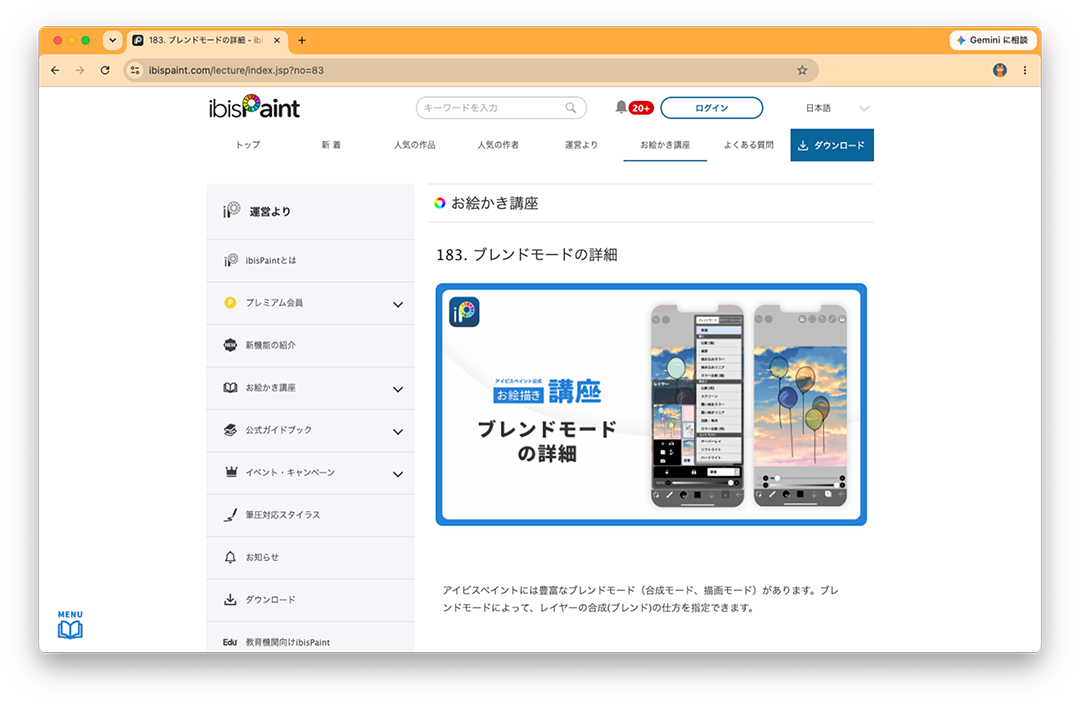
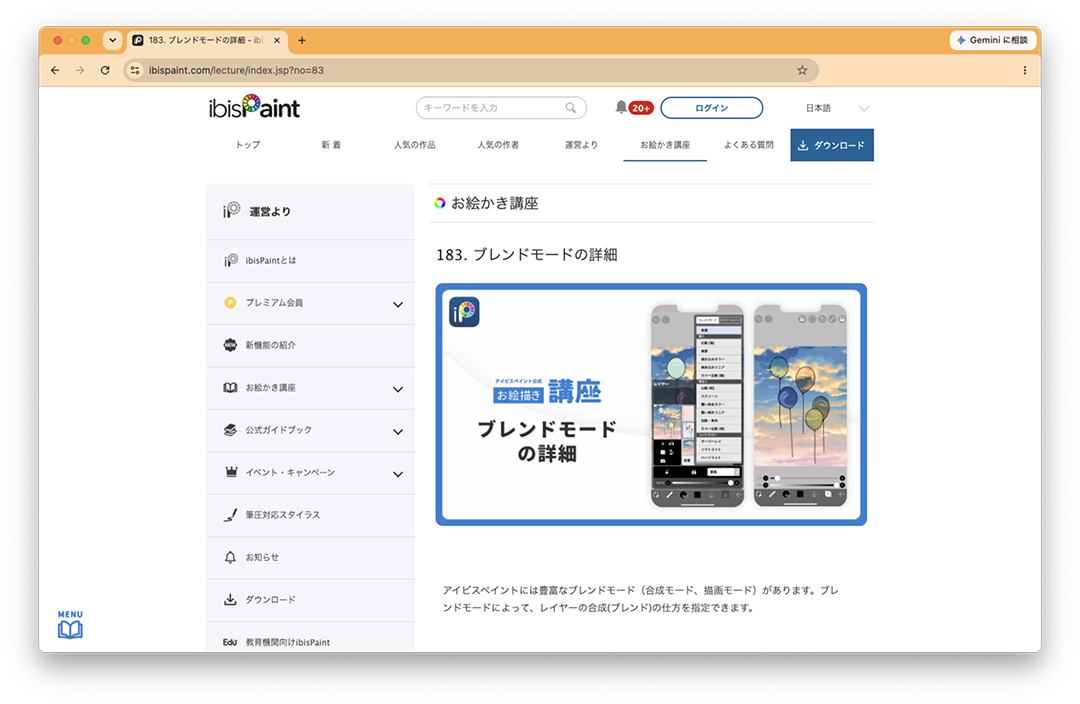
掲載情報の修正

diff --git a/works-commercial-web.html b/works-commercial-web.html
@@ -40,15 +40,16 @@
                 <div class="p-feature-item">
                   <div class="p-feature-text">
                     <h4>■親しみやすさの表現</h4>
-                    <p>元々ユーザー向けに</p>
+                    <p>アプリのユーザー層に合わせ、イラスト制作を楽しむ雰囲気が伝わるビジュアルを意識しました。書籍ごとにターゲット読者や難易度が異なるため、それぞれの個性が一目で伝わるようにデザインに差をつけ、複数タイトルの並列掲載でも見分けやすい構成にしています。</p>
                   </div>
                 </div>
                 <div class="p-feature-item">
                   <div class="p-feature-text">
-                    <h4>■回遊率と直帰率の改善</h4>
-                    <p>サイト内の閲覧数が高いコンテンツを頭出しし、人気コンテンツからの遷移を狙っています。以前より TOP ページに掲載する記事数が少なくなることに顧客は懐疑的でしたが、納品後もタイトル位置の改善、コンテンツの掲載順を入れ替えるなどの手入れを行った結果、リニューアル後5カ月で回遊率が XX%改善、直帰率も XX%から XX%に減少しました。</p>
+                    <h4>■統一感と個性を両立したデザイン</h4>
+                    <p>複数書籍を掲載するため、ページの雛形は統一しつつ、各書籍の世界観やターゲット層に合わせたデザインを展開しました。書籍のカバーデザインや内容から要素を抽出し、ページのビジュアルに反映させることで、どの書籍かが一目で伝わる個性を持たせています。</p>
                   </div>
                 </div>
+                <div class="p-feature-img"><img src="img/guidebook05_top.png"></div>
               </div>
             </div>
             <div class="p-modal-sidebar">
@@ -68,6 +69,7 @@
                   <li>デザイン作成</li>
                   <li>HTML作成・実装</li>
                   <li>レスポンシブ対応</li>
+                  <li>バナー作成</li>
                 </ul>
               </div>
               <div class="p-meta-group">
@@ -121,7 +123,7 @@
                 <ul class="p-bullet-list">
                   <li>機能数が多いと読む気が失われる</li>
                   <li>トップの機能にしか目が行かない</li>
-                  <li>定期作業なので、少ない工数ですませたい</li>
+                  <li>定期作業なので、少ない工数で対応したい</li>
                 </ul>
               </div>
               <div class="p-modal-block p-features">
@@ -129,13 +131,13 @@
                 <div class="p-feature-item">
                   <div class="p-feature-text">
                     <h4>■追加機能の多さのインパクト</h4>
-                    <p>「たくさんの機能が追加された」ことが伝わるように、目次を作成。加えて、リンクをつけて各種機能の説明に簡単に移動できるようにしました。</p>
+                    <p>機能の多さをネガティブにではなく「これだけ進化した」という訴求に転換するため、目次を設けて全体量を可視化しました。各機能へのアンカーリンクも設置し、気になる機能にすぐ移動できるUXを実現しています。</p>
                   </div>
                 </div>
                 <div class="p-feature-item">
                   <div class="p-feature-text">
                     <h4>■運用の改善</h4>
-                    <p>いままでは画像ファイル名は『ver[バージョン番号]_[連番].png』という形式でしたが、制作途中で順番が入れ替わることが多くあり、連番を揃える修正で無駄な工数が発生していました。新しい形式では『ver[バージョン番号]_[機能名称]_[連番].png』変更することで、機能グループごとの入れ替えだけで済むようになり、運用性が向上しました。</p>
+                    <p>従来の画像ファイル命名規則（ver[バージョン番号]_[連番].png）は、制作途中の順番変更のたびに連番修正が発生し、余分な工数がかかっていました。ver[バージョン番号]_[機能名称]_[連番].png という形式に変更することで、機能グループ単位での並び替えのみで対応できるようになり、定期更新の運用負荷を大幅に削減しました。</p>
                   </div>
                 </div>
               </div>
@@ -201,7 +203,7 @@
             <div class="modal-img-box"><img src="img/web_materialContest.png"></div>
             <p class="bold">WebDesign / Cording<br><a href="https://ibispaint.com/campaign/202409material-a/index.jsp" target="_blank">URL</a></p>
             <p>自社アプリを使ったイラストのコンテストページ。<br>
-            旧式のデザインから、運用のしやすさを重視したデザインにリニューアルしました。<br>※
+            旧式のデザインから、運用のしやすさを重視したデザインにリニューアルしました。<br>※「第42回素材コンテスト」ページは一例です。
             </p>
             <div class="p-modal-body">
               <div class="p-modal-main">
@@ -213,6 +215,27 @@
                     <li>リニューアルで過去開催のページのデザインを崩さない</li>
                   </ul>
                 </div>
+                <div class="p-modal-block p-features">
+                <h3 class="p-heading">▼工夫した点・実績</h3>
+                <div class="p-feature-item">
+                  <div class="p-feature-text">
+                    <h4>■テーマカラーの変数管理による運用効率化</h4>
+                    <p>コンテスト回ごとにテーマカラーが変わることを考慮し、CSS変数（カスタムプロパティ）でカラーを一元管理できる設計にしました。色の変更箇所が分散していた従来の構造を改め、変数を書き換えるだけで全体のカラーリングが切り替わるようにしたことで、定期更新の作業時間を大幅に短縮しています。</p>
+                  </div>
+                </div>
+                <div class="p-feature-item">
+                  <div class="p-feature-text">
+                    <h4>■ビジュアルの刷新</h4>
+                    <p>旧デザインと比較してページ内の画像を増やし、コンテストの雰囲気に合ったポップで賑やかな印象に仕上げました。参加意欲を高めるビジュアル表現を意識しています。</p>
+                  </div>
+                </div>
+                <div class="p-feature-item">
+                  <div class="p-feature-text">
+                    <h4>■多言語対応を考慮したレイアウト設計</h4>
+                    <p>従来のページは言語によって文字量が変わるとレイアウトが崩れる問題がありました。リニューアルでは文字量の増減に対して柔軟に対応できるレイアウト設計を行い、複数言語での表示崩れを解消しています。</p>
+                  </div>
+                </div>
+              </div>
               </div>
               <div class="p-modal-sidebar">
                 <div class="p-meta-group">
@@ -275,23 +298,23 @@
           <div class="modal-content">
             <div class="modal-img-box"><img src="img/web_lecture83.png"></div>
             <p class="bold">WebDesign / Cording<br><a href="https://ibispaint.com/lecture/index.jsp?no=83" target="_blank">URL</a></p>
-            <p>自社アプリを使った講座ページ。<br>複雑な仕様をユーザー向けに噛み砕いた表現を意識して原稿を作成しました。
+            <p>自社アプリを使った講座ページ。<br>複雑な仕様をユーザー向けに噛み砕いた表現を意識して原稿を作成しました。<br>※「ブレンドモードの詳細」ページは一例です。
             </p>
             <div class="p-modal-body">
               <div class="p-modal-main">
                 <div class="p-modal-block p-concept">
                   <h3 class="p-heading">▼課題とコンセプト</h3>
                   <ul class="p-bullet-list">
-                    <li>定期開催するコンテストなので、対応工数を減らす</li>
-                    <li>ユーザーが見やすい、わかりやすいデザインにする</li>
-                    <li>リニューアルで過去開催のページのデザインを崩さない</li>
+                    <li>初心者でも理解できる</li>
+                    <li>読んでいて飽きない</li>
+                    <li>知識として理解できなくても技術の活用ができる</li>
                   </ul>
                 </div>
                 <div class="p-modal-block p-features">
                   <div class="p-feature-item">
                       <div class="p-feature-text">
                         <h4>■わかりやすい文章作り</h4>
-                        <p>いままでは画像ファイル名は『ver[バージョン番号]_[連番].png』という形式でしたが、制作途中で順番が入れ替わることが多くあり、連番を揃える修正で無駄な工数が発生していました。新しい形式では『ver[バージョン番号]_[機能名称]_[連番].png』変更することで、機能グループごとの入れ替えだけで済むようになり、運用性が向上しました。</p>
+                        <p>「ブレンドモードによる色の見え方」という専門的なテーマを、初心者ユーザーが直感的に理解できる言葉で伝えることを最優先にしました。エンジニアへのヒアリングを通じて内部処理の仕組みを把握しつつ、技術的な正確さとユーザー目線のわかりやすさのバランスを取りながら原稿を作成しています。読み物として飽きさせないよう、図解画像と文章を組み合わせた構成にも配慮しました。</p>
                       </div>
                   </div>
                   <div class="p-feature-img"><img src="img/web_lecture83_02.png"></div>

diff --git a/works-commercial-app.html b/works-commercial-app.html
@@ -41,14 +41,14 @@
                   <h3 class="p-heading">▼工夫した点・実績</h3>
                   <div class="p-feature-item">
                     <div class="p-feature-text">
-                      <h4>■『お金がかかる』ことの心理的負担軽減</h4>
-                      <p>元々ユーザー向けに</p>
+                      <h4>■広告らしさを排したデザイン</h4>
+                      <p>課金誘導ページにありがちな押しつけがましい印象を避けるため、既存のアプリデザインのトーンを維持したビジュアルを徹底しました。ユーザーが違和感なく受け入れられるよう、広告色を極力抑えた設計を意識しています。</p>
                     </div>
                   </div>
                   <div class="p-feature-item">
                     <div class="p-feature-text">
-                      <h4>■回遊率と直帰率の改善</h4>
-                      <p>サイト内の閲覧数が高いコンテンツを頭出しし、人気コンテンツからの遷移を狙っています。以前より TOP ページに掲載する記事数が少なくなることに顧客は懐疑的でしたが、納品後もタイトル位置の改善、コンテンツの掲載順を入れ替えるなどの手入れを行った結果、リニューアル後5カ月で回遊率が XX%改善、直帰率も XX%から XX%に減少しました。</p>
+                      <h4>■ABテストによる継続的な改善</h4>
+                      <p>アプリマーケティングの事例を参考に、テキストの表現や金額の表記方法などを細かくABテストし、最適化を繰り返しました。改善を積み重ねた結果、CVRの20%向上および年額プランへの加入率の継続的な改善を達成しています。</p>
                     </div>
                   </div>
                 </div>
@@ -132,20 +132,14 @@
                   <h3 class="p-heading">▼工夫した点・実績</h3>
                   <div class="p-feature-item">
                     <div class="p-feature-text">
-                      <h4>■親しみやすさの表現</h4>
-                      <p>元々ユーザー向けに</p>
-                    </div>
-                    <div class="p-feature-img">
-                      <img src="img/illustration.png" alt="親しみやすさの表現イラスト">
+                      <h4>■情報設計による安心感の演出</h4>
+                      <p>3つのプランから選択する仕組みのため、機能をリスト形式で整理し、各プランで使える機能が一目でわかる比較表示を採用しました。「情報量が多い方が安心感につながりリテンション率が上がる」というマーケティング事例を参考に、機能紹介のスライドや利用シーンがイメージできる画像、活躍中のクリエイターの掲載なども盛り込んでいます。</p>
                     </div>
                   </div>
                   <div class="p-feature-item">
                     <div class="p-feature-text">
-                      <h4>■回遊率と直帰率の改善</h4>
-                      <p>サイト内の閲覧数が高いコンテンツを頭出しし、人気コンテンツからの遷移を狙っています。以前より TOP ページに掲載する記事数が少なくなることに顧客は懐疑的でしたが、納品後もタイトル位置の改善、コンテンツの掲載順を入れ替えるなどの手入れを行った結果、リニューアル後5カ月で回遊率が XX%改善、直帰率も XX%から XX%に減少しました。</p>
-                    </div>
-                    <div class="p-feature-img">
-                      <img src="img/screenshot.png" alt="回遊率と直帰率の改善実績画面">
+                      <h4>■ABテストによるUI最適化</h4>
+                      <p>フッター固定のボタン形式やカード選択形式など、複数のUIパターンでABテストを実施し、最もCVRが高いレイアウトに絞り込みました。継続的な改善の結果、CVRの向上を達成しています。</p>
                     </div>
                   </div>
                 </div>
@@ -161,8 +155,6 @@
                 <div class="p-meta-group">
                   <h3>▼担当領域</h3>
                   <ul class="p-sidebar-sub-list">
-                    <li>ディープブリザードと学ぶ たのしいアイビスペイント入門教室</li>
-                    <li>［公式］アイビスペイントの教科書 スマホではじめるイラスト超入門</li>
                     <li>ページ構成の考案</li>
                     <li>デザイン作成</li>
                     <li>HTML作成・実装</li>
@@ -212,16 +204,14 @@
           <div class="modal-content">
             <div class="modal-img-box"><img src="img/web_PORTFOLIO.png"></div>
             <p class="bold">Design / Cording</p>
-            <p>自社アプリ内で表示される課金誘導ページの作成。<br>
-            このページを作成したことにより、CVRが20%向上しました。
+            <p>アプリダウンロード後、初回起動時に表示されるポップアップ。ユーザーの経験値に合わせたおすすめ機能の紹介から、プレミアム機能の購読誘導、コミュニティへの案内までを一連の流れで設計・デザインしました。グリーティング経由でのプレミアム加入も一定数あり、新規ユーザーの獲得に貢献しています。
             </p>
             <div class="p-modal-body">
               <div class="p-modal-main">
                 <div class="p-modal-block p-concept">
                   <h3 class="p-heading">▼課題とコンセプト</h3>
                   <ul class="p-bullet-list">
-                    <li>既存のアプリの雰囲気からかけ離れない</li>
-                    <li>心理敵負担を軽減する</li>
+                    <li>アプリへの理解を深め、MAUを高める</li>
                     <li>どのサイズのデザインでも対応できる</li>
                     <li>19言語対応</li>
                   </ul>
@@ -230,20 +220,14 @@
                   <h3 class="p-heading">▼工夫した点・実績</h3>
                   <div class="p-feature-item">
                     <div class="p-feature-text">
-                      <h4>■親しみやすさの表現</h4>
-                      <p>元々ユーザー向けに</p>
-                    </div>
-                    <div class="p-feature-img">
-                      <img src="img/illustration.png" alt="親しみやすさの表現イラスト">
+                      <h4>■ユーザー体験に沿った構成設計</h4>
+                      <p>最初に「イラストアプリを使うのははじめてですか？」と問いかけ、回答に応じておすすめ機能をカルーセルで紹介。その後プレミアム機能の訴求、コミュニティ紹介へと自然につながる流れを設計しました。ユーザーが自分ごととして受け取れる導線を意識しています。</p>
                     </div>
                   </div>
                   <div class="p-feature-item">
                     <div class="p-feature-text">
-                      <h4>■回遊率と直帰率の改善</h4>
-                      <p>サイト内の閲覧数が高いコンテンツを頭出しし、人気コンテンツからの遷移を狙っています。以前より TOP ページに掲載する記事数が少なくなることに顧客は懐疑的でしたが、納品後もタイトル位置の改善、コンテンツの掲載順を入れ替えるなどの手入れを行った結果、リニューアル後5カ月で回遊率が XX%改善、直帰率も XX%から XX%に減少しました。</p>
-                    </div>
-                    <div class="p-feature-img">
-                      <img src="img/screenshot.png" alt="回遊率と直帰率の改善実績画面">
+                      <h4>■離脱させないページ設計</h4>
+                      <p>ページ数が多すぎると途中離脱につながるため、伝えたい情報を絞り込み、テンポよく読み進められるステップ数に調整しました。デザインはすっきりとした爽やかな印象を意識し、初めてアプリを触るユーザーにも圧迫感を与えない画面に仕上げています。</p>
                     </div>
                   </div>
                 </div>
@@ -332,17 +316,11 @@
                       <h4>■親しみやすさの表現</h4>
                       <p>元々ユーザー向けに</p>
                     </div>
-                    <div class="p-feature-img">
-                      <img src="img/illustration.png" alt="親しみやすさの表現イラスト">
-                    </div>
                   </div>
                   <div class="p-feature-item">
                     <div class="p-feature-text">
                       <h4>■回遊率と直帰率の改善</h4>
                       <p>サイト内の閲覧数が高いコンテンツを頭出しし、人気コンテンツからの遷移を狙っています。以前より TOP ページに掲載する記事数が少なくなることに顧客は懐疑的でしたが、納品後もタイトル位置の改善、コンテンツの掲載順を入れ替えるなどの手入れを行った結果、リニューアル後5カ月で回遊率が XX%改善、直帰率も XX%から XX%に減少しました。</p>
-                    </div>
-                    <div class="p-feature-img">
-                      <img src="img/screenshot.png" alt="回遊率と直帰率の改善実績画面">
                     </div>
                   </div>
                 </div>

diff --git a/works-personal-animation.html b/works-personal-animation.html
@@ -141,11 +141,6 @@
   </div><!--/.modal-window-->
 </div>
 
-        </div><!-- /#container-workstxt-->
-		</div><!--/sub-BOX-->
+  </div><!-- /#container-workstxt-->
 <!--/Animation-->
-			
-
-
-</div><!--/.contents-box-->
 </section>
